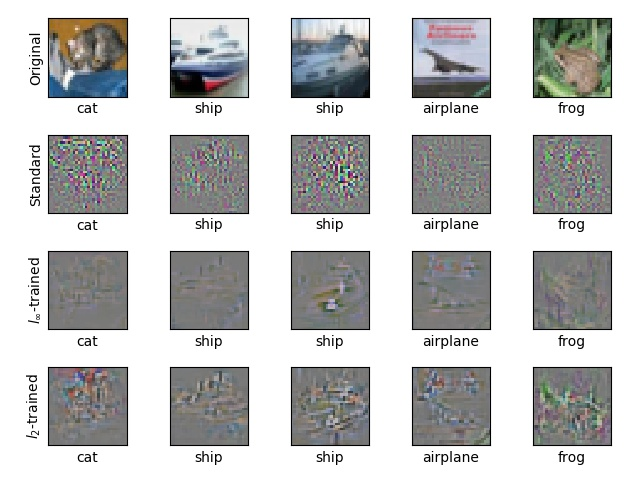
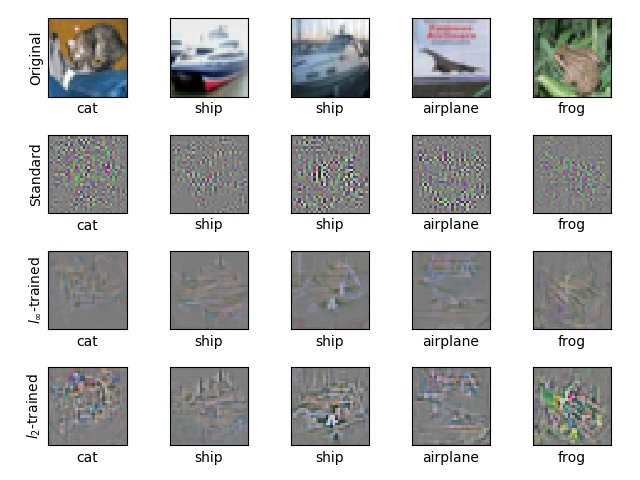
update alpha and results

diff --git a/cifar-10/src/argument.py b/cifar-10/src/argument.py
@@ -16,8 +16,8 @@ def parser():
     # parameters for generating adversarial examples
     parser.add_argument('--epsilon', '-e', type=float, default=0.0157, 
         help='maximum perturbation of adversaries (4/255=0.0157)')
-    parser.add_argument('--alpha', '-a', type=float, default=2, 
-        help='movement multiplier per iteration when generating adversarial examples')
+    parser.add_argument('--alpha', '-a', type=float, default=0.00784, 
+        help='movement multiplier per iteration when generating adversarial examples (2/255=0.00784)')
     parser.add_argument('--k', '-k', type=int, default=10, 
         help='maximum iteration when generating adversarial examples')
 

diff --git a/cifar-10/README.md b/cifar-10/README.md
@@ -1,6 +1,10 @@
 # Adversarial Training and Visualization on CIFAR-10
 
 
+## Update
+
+* Change the default alpha from 2 to 2/255, and update the results.
+
 ## Results
 
 ### Learning Curves
@@ -28,12 +32,12 @@ Epsilon in linf (l2) training is 0.0157 (0.314). [0.0157=4/255, 0.314=80/255]
         <th colspan="1" align="center"> <strong>Robustness Accuracy</strong> <br/> (train/test) </th>
     </tr>
     <tr>
-        <th colspan="1" align="center"> 92.19/86.67 </th>
-        <th colspan="1" align="center"> 7.03/12.05 </th>
-        <th colspan="1" align="center"> 81.25/79.65 </th>
-        <th colspan="1" align="center"> 57.03/64.44 </th>
-        <th colspan="1" align="center"> 88.28/85.44 </th>
-        <th colspan="1" align="center"> 74.22/77.61 </th>
+        <th colspan="1" align="center"> 92.19/87.14 </th>
+        <th colspan="1" align="center"> 0.00/7.85 </th>
+        <th colspan="1" align="center"> 79.69/78.09 </th>
+        <th colspan="1" align="center"> 61.72/63.8 </th>
+        <th colspan="1" align="center"> 89.84/85.39 </th>
+        <th colspan="1" align="center"> 76.56/77.76 </th>
     </tr>
     </tbody>
 </table>
